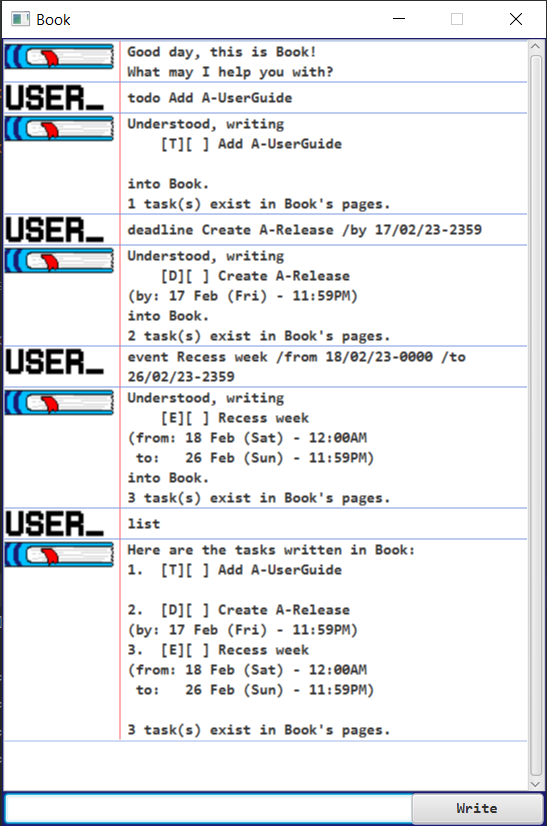
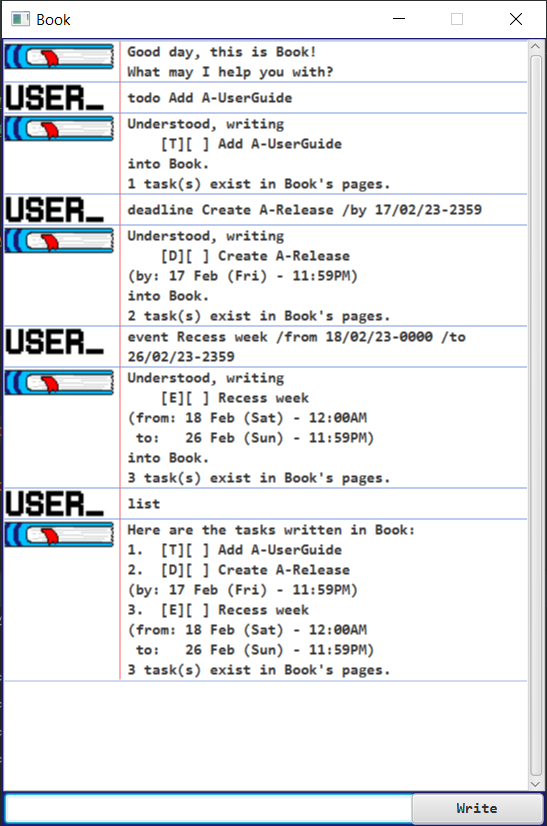
Fix minor UI, JavaDoc issues

Changed region(s): [[0.0, 0.1816, 0.9634, 0.908]]

diff --git a/src/main/java/book/command/ListCommand.java b/src/main/java/book/command/ListCommand.java
@@ -9,8 +9,8 @@ import book.Ui;
  */
 public class ListCommand extends Command {
     /**
-     * Lists the {@code Task} objects in the associated {@code TaskList}, prints the relevant
-     * output to the {@code Ui}.
+     * Lists the {@code Task} objects in the associated {@code TaskList}, returns the
+     * {@code String} to be displayed on the {@code Gui}.
      *
      * @param storage {@code Storage} associated with the {@code Command}.
      * @param list {@code TaskList} associated with the {@code Command}.
@@ -19,6 +19,6 @@ public class ListCommand extends Command {
      */
     @Override
     public String execute(Storage storage, TaskList list, Ui ui) {
-        return ui.showList(list) + "\n" + ui.showTaskListSize(list);
+        return ui.showList(list) + ui.showTaskListSize(list);
     }
 }

diff --git a/src/test/java/task/ToDoTest.java b/src/test/java/task/ToDoTest.java
@@ -12,7 +12,7 @@ public class ToDoTest {
     @Test
     public void instanceTest() {
         ToDo toDo = new ToDo("test");
-        assertEquals("[T][ ] test\n", toDo.toString());
+        assertEquals("[T][ ] test", toDo.toString());
     }
     @Test
     public void saveStringTest() {
@@ -23,13 +23,13 @@ public class ToDoTest {
     public void markTest() {
         ToDo toDo = new ToDo("test");
         toDo.mark();
-        assertEquals("[T][X] test\n", toDo.toString());
+        assertEquals("[T][X] test", toDo.toString());
     }
     @Test
     public void unmarkTest() {
         ToDo toDo = new ToDo("test");
         toDo.mark();
         toDo.unmark();
-        assertEquals("[T][ ] test\n", toDo.toString());
+        assertEquals("[T][ ] test", toDo.toString());
     }
 }

diff --git a/src/main/java/book/command/UnmarkCommand.java b/src/main/java/book/command/UnmarkCommand.java
@@ -24,7 +24,8 @@ public class UnmarkCommand extends Command {
 
     /**
      * Unmarks the {@code Task} at the associated {@code int} index in the {@code TaskList} as
-     * complete and updates the {@code Storage}, prints the relevant output to the {@code Ui}.
+     * complete and updates the {@code Storage}, returns the {@code String} to be displayed on the
+     * {@code Gui}.
      *
      * @param storage {@code Storage} associated with the {@code Command}.
      * @param list {@code TaskList} associated with the {@code Command}.

diff --git a/src/main/java/book/command/MarkCommand.java b/src/main/java/book/command/MarkCommand.java
@@ -24,7 +24,8 @@ public class MarkCommand extends Command {
 
     /**
      * Marks the {@code Task} at the associated {@code int} index in the {@code TaskList} as
-     * complete and updates the {@code Storage}, prints the relevant output to the {@code Ui}.
+     * complete and updates the {@code Storage}, returns the {@code String} to be displayed on the
+     * {@code Gui}.
      *
      * @param storage {@code Storage} associated with the {@code Command}.
      * @param list {@code TaskList} associated with the {@code Command}.

diff --git a/src/main/java/book/command/DeleteCommand.java b/src/main/java/book/command/DeleteCommand.java
@@ -24,7 +24,7 @@ public class DeleteCommand extends Command {
 
     /**
      * Deletes the {@code Task} at the associated {@code int} index in the {@code TaskList} and
-     * updates the {@code Storage}, prints the relevant output to the {@code Ui}.
+     * updates the {@code Storage}, returns the {@code String} to be displayed on the {@code Gui}.
      *
      * @param storage {@code Storage} associated with the {@code Command}.
      * @param list {@code TaskList} associated with the {@code Command}.

diff --git a/src/main/java/book/command/FindCommand.java b/src/main/java/book/command/FindCommand.java
@@ -24,7 +24,7 @@ public class FindCommand extends Command {
 
     /**
      * Lists the {@code Task} objects matching a given {@code String} keyword in the associated
-     * {@code TaskList}, prints the relevant output to the {@code Ui}.
+     * {@code TaskList}, returns the {@code String} to be displayed on the {@code Gui}.
      *
      * @param storage {@code Storage} associated with the {@code Command}.
      * @param list {@code TaskList} associated with the {@code Command}.

diff --git a/src/main/java/book/command/Command.java b/src/main/java/book/command/Command.java
@@ -10,8 +10,7 @@ import book.exception.BookException;
  */
 public abstract class Command {
     /**
-     * Abstract method to be implemented by {@code Command} representing the execution of the
-     * {@code Command}.
+     * Executes the {@code Command}, returns the {@code String} to be displayed on the {@code Gui}.
      *
      * @param storage {@code Storage} associated with the {@code Command}.
      * @param list {@code TaskList} associated with the {@code Command}.

diff --git a/src/main/java/book/command/SortCommand.java b/src/main/java/book/command/SortCommand.java
@@ -11,7 +11,7 @@ import book.exception.SaveException;
 public class SortCommand extends Command {
     /**
      * Sorts the {@code Task}s in the {@code TaskList} and updates the {@code Storage},
-     * prints the relevant output to the {@code Ui}.
+     * returns the {@code String} to be displayed on the {@code Gui}.
      *
      * @param storage {@code Storage} associated with the {@code Command}.
      * @param list {@code TaskList} associated with the {@code Command}.

diff --git a/src/main/java/book/command/AddCommand.java b/src/main/java/book/command/AddCommand.java
@@ -24,7 +24,7 @@ public class AddCommand extends Command {
 
     /**
      * Adds the associated {@code Task} to the {@code TaskList} and updates the {@code Storage},
-     * prints the relevant output to the {@code Ui}.
+     * returns the {@code String} to be displayed on the {@code Gui}.
      *
      * @param storage {@code Storage} associated with the {@code AddCommand}.
      * @param list {@code TaskList} associated with the {@code AddCommand}.

diff --git a/src/main/java/book/command/ExitCommand.java b/src/main/java/book/command/ExitCommand.java
@@ -10,7 +10,7 @@ import book.exception.SaveException;
  */
 public class ExitCommand extends Command {
     /**
-     * Updates the {@code Storage}, prints the relevant output to the {@code Ui}.
+     * Updates the {@code Storage}, returns the {@code String} to be displayed on the {@code Gui}.
      *
      * @param storage {@code Storage} associated with the {@code Command}.
      * @param list {@code TaskList} associated with the {@code Command}.

diff --git a/src/main/java/book/task/ToDo.java b/src/main/java/book/task/ToDo.java
@@ -30,6 +30,6 @@ public class ToDo extends Task {
      */
     @Override
     public String toString() {
-        return "[T]" + super.toString() + "\n";
+        return "[T]" + super.toString();
     }
 }
